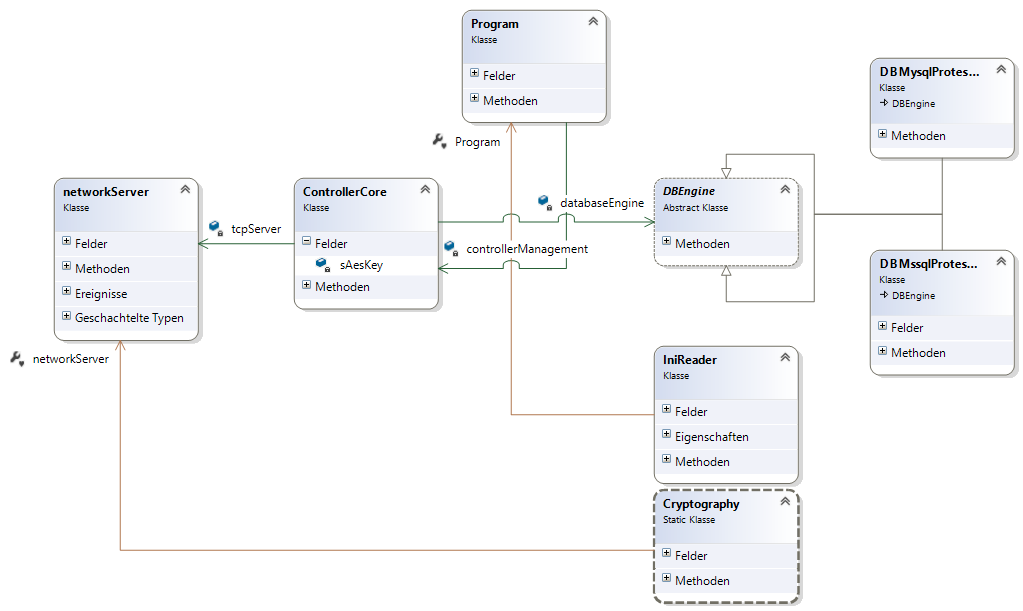
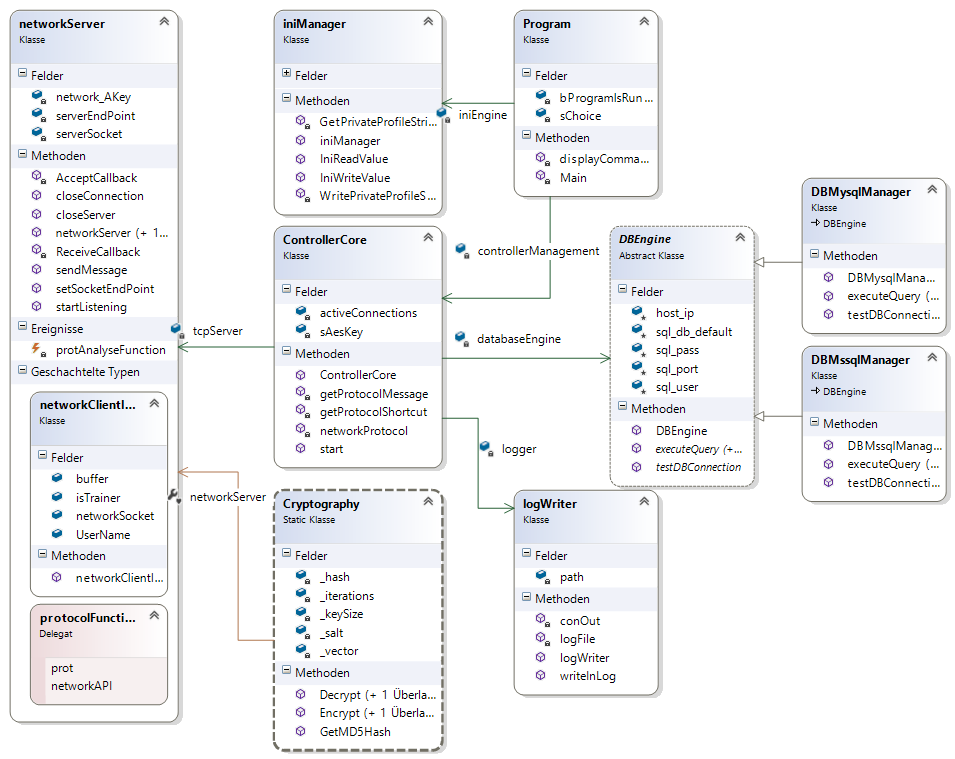
Updated Class Diagram

Changed region(s): [[0.0, 0.0, 1.0, 0.9951]]

diff --git a/tbfController/src/Program.cs b/tbfController/src/Program.cs
@@ -15,7 +15,7 @@ namespace tbfController
         static string sChoice="";
         static bool bProgramIsRunning = true;
         static ControllerCore controllerManagement;
-
+        iniManager iniEngine;
 
         static void Main(string[] args)
         {
